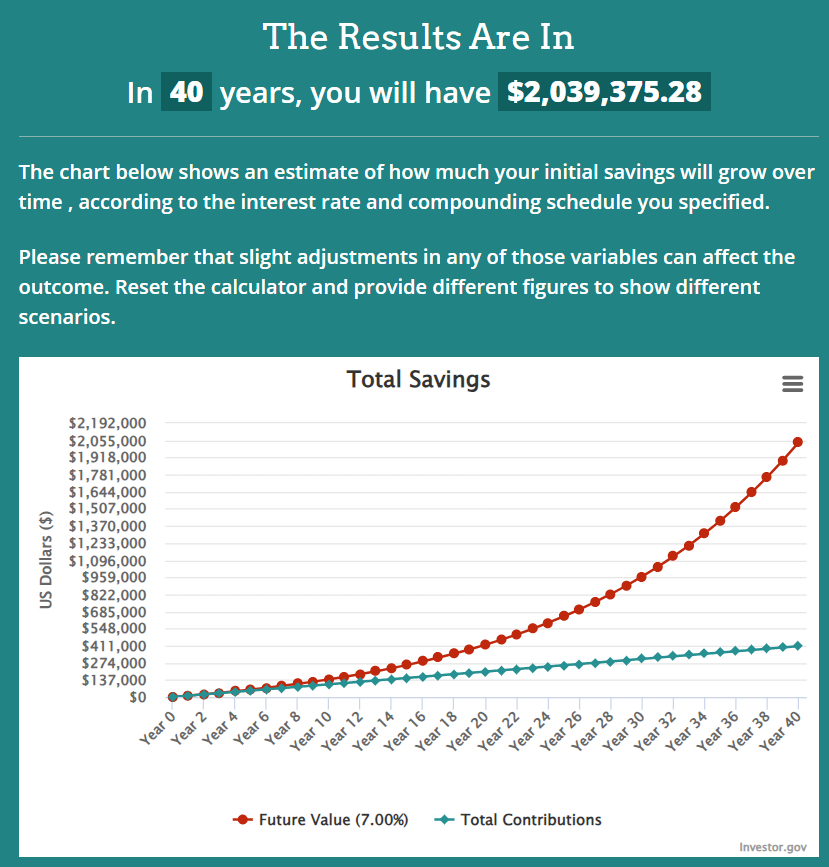
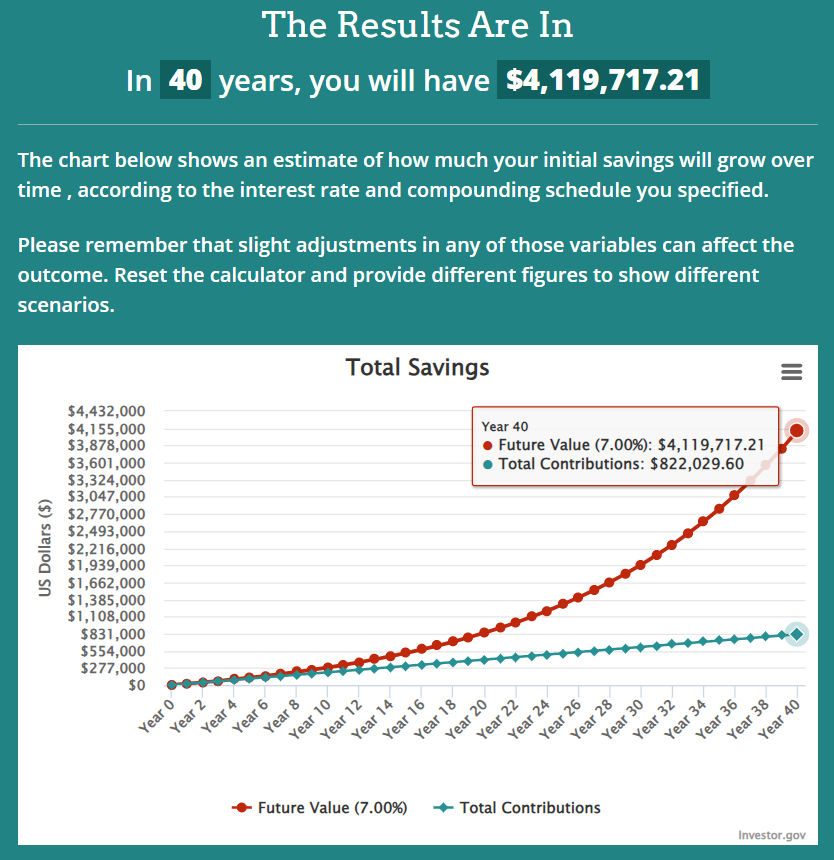
old man

diff --git a/site/pages/financeproject/insurance.html b/site/pages/financeproject/insurance.html
@@ -83,12 +83,11 @@
 
         grid-template-areas: 
                     "a a b"
-                    "c c c"
-                    "d d d";
+                    "c c c";
 
         align-items: start;
         grid-template-columns: repeat(3, 1fr);
-        grid-template-rows: repeat(3, 1fr);
+        grid-template-rows: 1fr;
     }
 
     .content {
@@ -160,30 +159,35 @@
                     <div class="text-area">
 
                         <div id="cont2" class="content"> 
-                            <img src="ncstatecampus.jpg" style="width: 100%; height: 100%;">
+                            <img src="healthinsurance.jpg" style="width: 97.5%; height: 100%; margin-top: 5%;">
+                        </div>
+
+                        <div id="cont3" class="content"> 
+                            <img src="insurance.jpg" style="width: 60%; height: 80%;">
                         </div>
                         
-                        <div id="cont1" class="content" style="margin-left: 4%;">
+                        <div id="cont1" class="content">
                             <p>
-                                Lorem ipsum dolor sit amet, consectetur adipiscing elit, sed do eiusmod tempor incididunt ut labore et dolore magna aliqua. In hendrerit gravida rutrum quisque non tellus. 
-                                Pellentesque habitant morbi tristique senectus et netus et. Ipsum dolor sit amet consectetur adipiscing elit duis tristique sollicitudin. 
-                                Sit amet justo donec enim diam vulputate ut pharetra sit. Neque vitae tempus quam pellentesque nec. Pharetra diam sit amet nisl. 
-                            </p>
-                        </div>
+                                This is where the best part of the job I chose comes in. The job at Epic gives some amazing benefits, the best of which is them covering 100% of the premiums 
+                                for several types of insurances. 
+                                <br><br>The insurances included are:
+                                <ul>
+                                    <li>Health insurance</li>
+                                    <li>Dental insurance</li>
+                                    <li>Vision insurance</li>
+                                    <li>Long term disability insurance</li>
+                                    <li>Life insurance</li>
+                                </ul>
 
-                        <div id="cont3" class="content">
-                            <p>
-                                Lorem ipsum dolor sit amet, consectetur adipiscing elit, sed do eiusmod tempor incididunt ut labore et dolore magna aliqua. In hendrerit gravida rutrum quisque non tellus. 
-                                Pellentesque habitant morbi tristique senectus et netus et. Ipsum dolor sit amet consectetur adipiscing elit duis tristique sollicitudin. 
-                                Sit amet justo donec enim diam vulputate ut pharetra sit. Neque vitae tempus quam pellentesque nec. Pharetra diam sit amet nisl. 
-                            </p>
-                        </div>
-
-                        <div id="cont4" class="content">
-                            <p>
-                                Lorem ipsum dolor sit amet, consectetur adipiscing elit, sed do eiusmod tempor incididunt ut labore et dolore magna aliqua. In hendrerit gravida rutrum quisque non tellus. 
-                                Pellentesque habitant morbi tristique senectus et netus et. Ipsum dolor sit amet consectetur adipiscing elit duis tristique sollicitudin. 
-                                Sit amet justo donec enim diam vulputate ut pharetra sit. Neque vitae tempus quam pellentesque nec. Pharetra diam sit amet nisl. 
+                                Having this benefit means the only insurances I have to pay for are renter's insurance and car insurance. The health, dental, and vision 
+                                insurances are especially helpful because I have yearly/bi-yearly appointments for each of them. The disability and life insurances are 
+                                not as useful for me as I don't have any dependents and my job is not dangerous, but if I get the premiums 100% paid then I think it's
+                                worth it to just have.
+                                <br>
+                                <br>
+                                Many financial planners will say that insurance is the most important thing you can buy to ensure a financially secure future. I agree,
+                                though I don't believe we should have to pay for many of the things that we have insured, but it's the United States and we aren't changing
+                                any time soon, so I better get on board.
                             </p>
                         </div>
                     </div>

diff --git a/site/pages/financeproject/retirement.html b/site/pages/financeproject/retirement.html
@@ -82,13 +82,13 @@
         display: grid;
 
         grid-template-areas: 
-                    "a a b"
-                    "c c c"
-                    "d d d";
+                    "a a a"
+                    "b c d"
+                    "e e e";
 
         align-items: start;
         grid-template-columns: repeat(3, 1fr);
-        grid-template-rows: repeat(3, 1fr);
+        grid-template-rows: 1fr;
     }
 
     .content {
@@ -160,30 +160,34 @@
                     <div class="text-area">
 
                         <div id="cont2" class="content"> 
-                            <img src="ncstatecampus.jpg" style="width: 100%; height: 100%;">
+                            <img src="retirement-savings.jpg" style="width: 120%; height: 120%; margin-left: 5%;">
+                        </div> 
+                        
+                        <div id="cont4" class="content"> 
+                            <img src="coinjar.jpg" style="width: 75%; height: 100%; margin-left: 25%;">
                         </div>
                         
-                        <div id="cont1" class="content" style="margin-left: 4%;">
+                        <div id="cont1" class="content">
                             <p>
-                                Lorem ipsum dolor sit amet, consectetur adipiscing elit, sed do eiusmod tempor incididunt ut labore et dolore magna aliqua. In hendrerit gravida rutrum quisque non tellus. 
-                                Pellentesque habitant morbi tristique senectus et netus et. Ipsum dolor sit amet consectetur adipiscing elit duis tristique sollicitudin. 
-                                Sit amet justo donec enim diam vulputate ut pharetra sit. Neque vitae tempus quam pellentesque nec. Pharetra diam sit amet nisl. 
+                                Planning for my future will be super important as I begin my working life. The best way I can do this is with a retirement account. Epic offers
+                                a 401k with a "competitive match", so I would use that up to the match then put the rest of my retirement money into a Roth IRA. If we assume
+                                the match is 5%, this is what the retirement accounts would look like after 40 years (10% in 401k and 10% in IRA): 
                             </p>
                         </div>
 
-                        <div id="cont3" class="content">
+                        <div id="cont3" class="content" style="margin-left: 27.5%;">
                             <p>
-                                Lorem ipsum dolor sit amet, consectetur adipiscing elit, sed do eiusmod tempor incididunt ut labore et dolore magna aliqua. In hendrerit gravida rutrum quisque non tellus. 
-                                Pellentesque habitant morbi tristique senectus et netus et. Ipsum dolor sit amet consectetur adipiscing elit duis tristique sollicitudin. 
-                                Sit amet justo donec enim diam vulputate ut pharetra sit. Neque vitae tempus quam pellentesque nec. Pharetra diam sit amet nisl. 
+                                Since the 401k is pre-tax with a 5% match, I will be putting 5% of $7,634, so $381.70, into it every month. Since the Roth is post-tax, I will be putting
+                                10% of $5,645, so $564.50, into it every month. This means that I will be putting 15% into retirement accounts, but with the match it will be a total of 20%.
+                                After 40 working years with a 7% average return, I would end up with over 4 million dollars in my retirement accounts combined, which is more than enough to
+                                retire on.
                             </p>
                         </div>
 
-                        <div id="cont4" class="content">
+                        <div id="cont5" class="content">
                             <p>
-                                Lorem ipsum dolor sit amet, consectetur adipiscing elit, sed do eiusmod tempor incididunt ut labore et dolore magna aliqua. In hendrerit gravida rutrum quisque non tellus. 
-                                Pellentesque habitant morbi tristique senectus et netus et. Ipsum dolor sit amet consectetur adipiscing elit duis tristique sollicitudin. 
-                                Sit amet justo donec enim diam vulputate ut pharetra sit. Neque vitae tempus quam pellentesque nec. Pharetra diam sit amet nisl. 
+                                Clearly, there is a very high chance I won't be working at the same place in 40 years, but hopefully I will only continue to move up the
+                                ladder, and will be able to retire on an amount similar to this.
                             </p>
                         </div>
                     </div>

diff --git a/site/pages/financeproject/budgeting.html b/site/pages/financeproject/budgeting.html
@@ -196,15 +196,15 @@
                                 </tr>
                                 <tr>
                                     <td class="table-left"> - Emergency</td>
-                                    <td class="table-right">$282.25</td>
+                                    <td class="table-right">$1,082.25</td>
                                 </tr>
                                 <tr>
                                     <td class="table-left"> - Retirement</td>
-                                    <td class="table-right">$1056.37</td>
+                                    <td class="table-right">$946.20</td>
                                 </tr>
                                 <tr>
                                     <td class="table-left"> - Investments</td>
-                                    <td class="table-right">$1,000.00</td>
+                                    <td class="table-right">$310.17</td>
                                 </tr>
                                 <tr>
                                     <td class="table-left" style="border-bottom: none;"> - Vacation</td>
@@ -330,10 +330,12 @@
                                 </tr>
                             </table>
 
+                            <br>
+
                             <p>
                                 Epic covering the premiums for many of the insurances is a huge benefit, even for the ones that I wouldn't typically purchase at this point such as
-                                life insurance or long term disability insurance. This allows me to pour a lot of money into my retirement account and into investments, each of which will 
-                                earn me even more money in the long term. 
+                                life insurance or long term disability insurance. This allows me to pour a lot of money into my retirement account and into my emergency savings fund,
+                                each of which will be beneficial to my financial future in the long term. 
                             </p>
                         </div>
                     </div>

diff --git a/site/pages/financeproject/mypossiblefuture.html b/site/pages/financeproject/mypossiblefuture.html
@@ -162,7 +162,7 @@
                             <h4>About the project and website</h4>
                             <p>
                                 For the past two weeks or so I have been building this section of my website to represent what my life could possibly 
-                                look like after college. This included creating eight different pages that cover the possibilities of my financial life and such. 
+                                look like after college. This included creating eight different pages that cover the possibilities of my financial life, job, housing, etc. 
                                 I did this for my Economics and Personal Finance final project, but it has been a real 
                                 adventure getting to re-explore the intricacies of HTML and CSS (even though my code is a mess). I probably wont end 
                                 up using JavaScript at all for this project, but I will likely use it in other parts of this website. One key thing to be aware of
